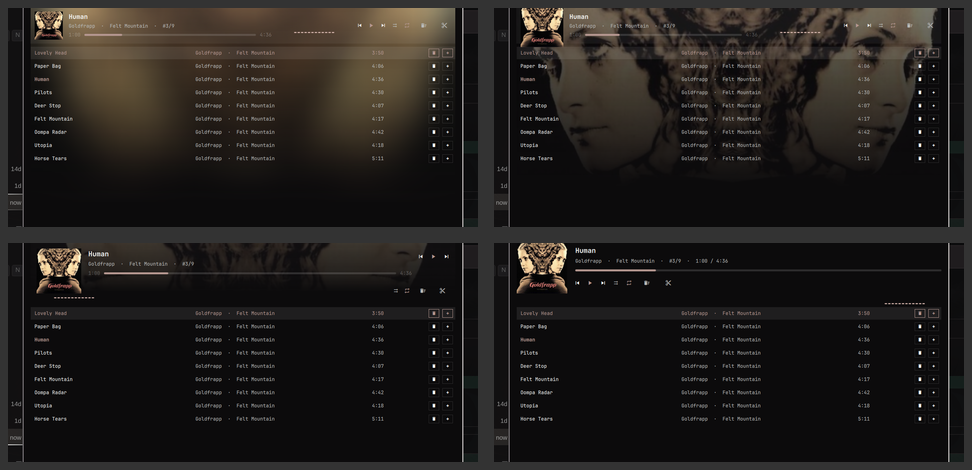
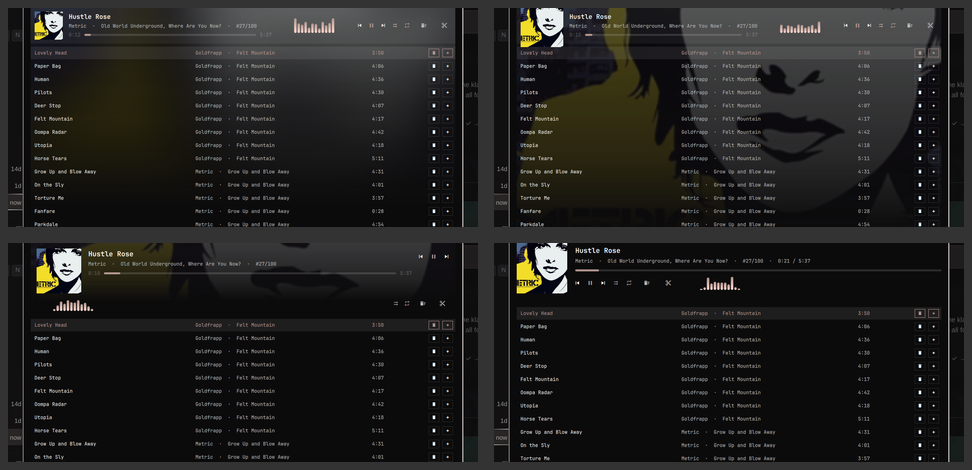
Panel: cava in hero und anker richtig platziert
- hero: das Band war 126 hoch, die untere Zeile begann bei 84 -- die Balken lagen
  also AUF dem Cover (20 px Ueberlappung). Band jetzt 150 hoch, damit die Zeile
  unter dem Cover sitzt, linksbuendig mit ihm (gleiche Kante = gleiche Flucht)
- anker: die Balken hingen am Band-Eck unter der Bedienzeile. Jetzt sind sie das
  letzte Kind der Zeile selbst -- ein Anker ueber die Elterngrenze sass rund 15 px
  zu hoch, innerhalb der Zeile koennen sie nicht mehr verrutschen
- docs/cover-looks.png mit den korrigierten Looks neu erzeugt

diff --git a/BandHero.qml b/BandHero.qml
@@ -31,7 +31,9 @@ Item {
   readonly property bool hasSong: !!host && host.hasSong === true
   readonly property string art: hasSong && host.artPath !== "" ? host.artPath : ""
 
-  implicitHeight: hasSong ? Style.space(126) : 0
+  // Tall enough that the bottom row sits *below* the cover instead of on top of
+  // it: cover (92) + 12 above + 6 gap + 30 row + 10 below.
+  implicitHeight: hasSong ? Style.space(150) : 0
   visible: implicitHeight > 0
 
   // ---------------------------------------------------------------- the card
@@ -235,11 +237,13 @@ Item {
   }
 
   // --------------------------------------------------- bottom row: levels + options
+  // Left edge on the cover's left edge, so the bars line up with the picture above
+  // them instead of floating somewhere in the middle of the card.
   Item {
     id: foot
-    anchors { left: parent.left; leftMargin: Style.space(14)
+    anchors { left: parent.left; leftMargin: Style.space(12)
               right: parent.right; rightMargin: Style.space(14)
-              bottom: parent.bottom; bottomMargin: Style.space(12) }
+              bottom: parent.bottom; bottomMargin: Style.space(10) }
     height: Style.space(30)
 
     Visualizer {

diff --git a/BandAnker.qml b/BandAnker.qml
@@ -280,16 +280,19 @@ Item {
           }
         }
       }
-    }
-  }
 
-  Visualizer {
-    id: viz
-    anchors { right: parent.right; bottom: parent.bottom }
-    width: Style.space(150)
-    height: Style.space(28)
-    visible: band.showViz && band.host !== null && band.host.queueLength > 0
-    levels: band.vizBars
-    count: band.vizCount
+      // The levels are the last child of the row: an anchor across the parent
+      // boundary sat about 15 px too high, and inside the row they cannot be
+      // misaligned at all. Right after the glyphs, like the classic band has them
+      // right after the text.
+      Visualizer {
+        id: viz
+        width: Style.space(150)
+        height: parent.height
+        visible: band.showViz && band.host !== null && band.host.queueLength > 0
+        levels: band.vizBars
+        count: band.vizCount
+      }
+    }
   }
 }
